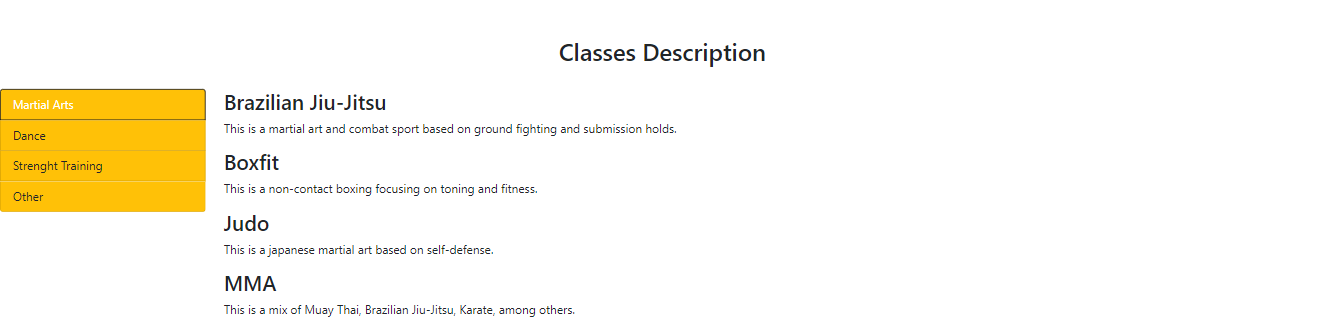
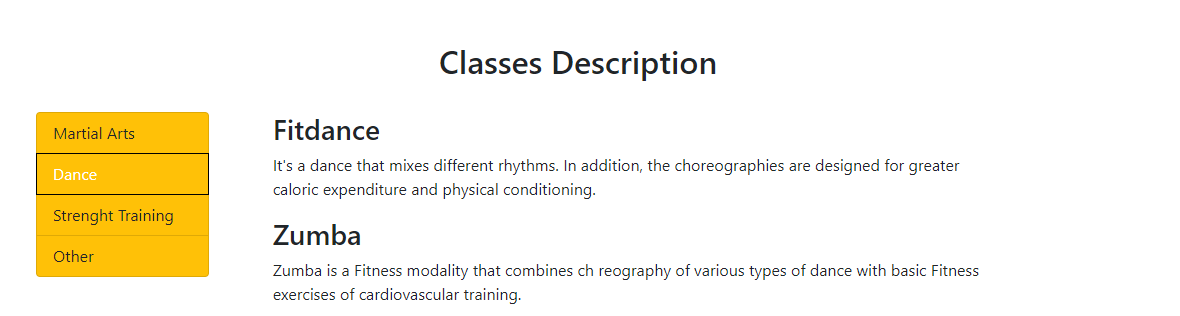
adjusting classes description button

Changed region(s): [[0.0, 0.2563, 0.8237, 0.8829], [0.3661, 0.1139, 0.6102, 0.2563], [0.1525, 0.9114, 0.4576, 0.9684]]

diff --git a/assets/css/style.css b/assets/css/style.css
@@ -271,7 +271,14 @@ header {
     position: unset;
 }
 
+.tab-content {
+    margin-left: 40px;
+}
 
+
+.classdesc {
+    margin-left: 60px;
+}
 
 /*------ media */
 
@@ -361,7 +368,9 @@ header {
         flex-direction: column;
         padding: 15px;
         margin: 20px;
+
     }
+
 
 
     .timetable .classbt {
